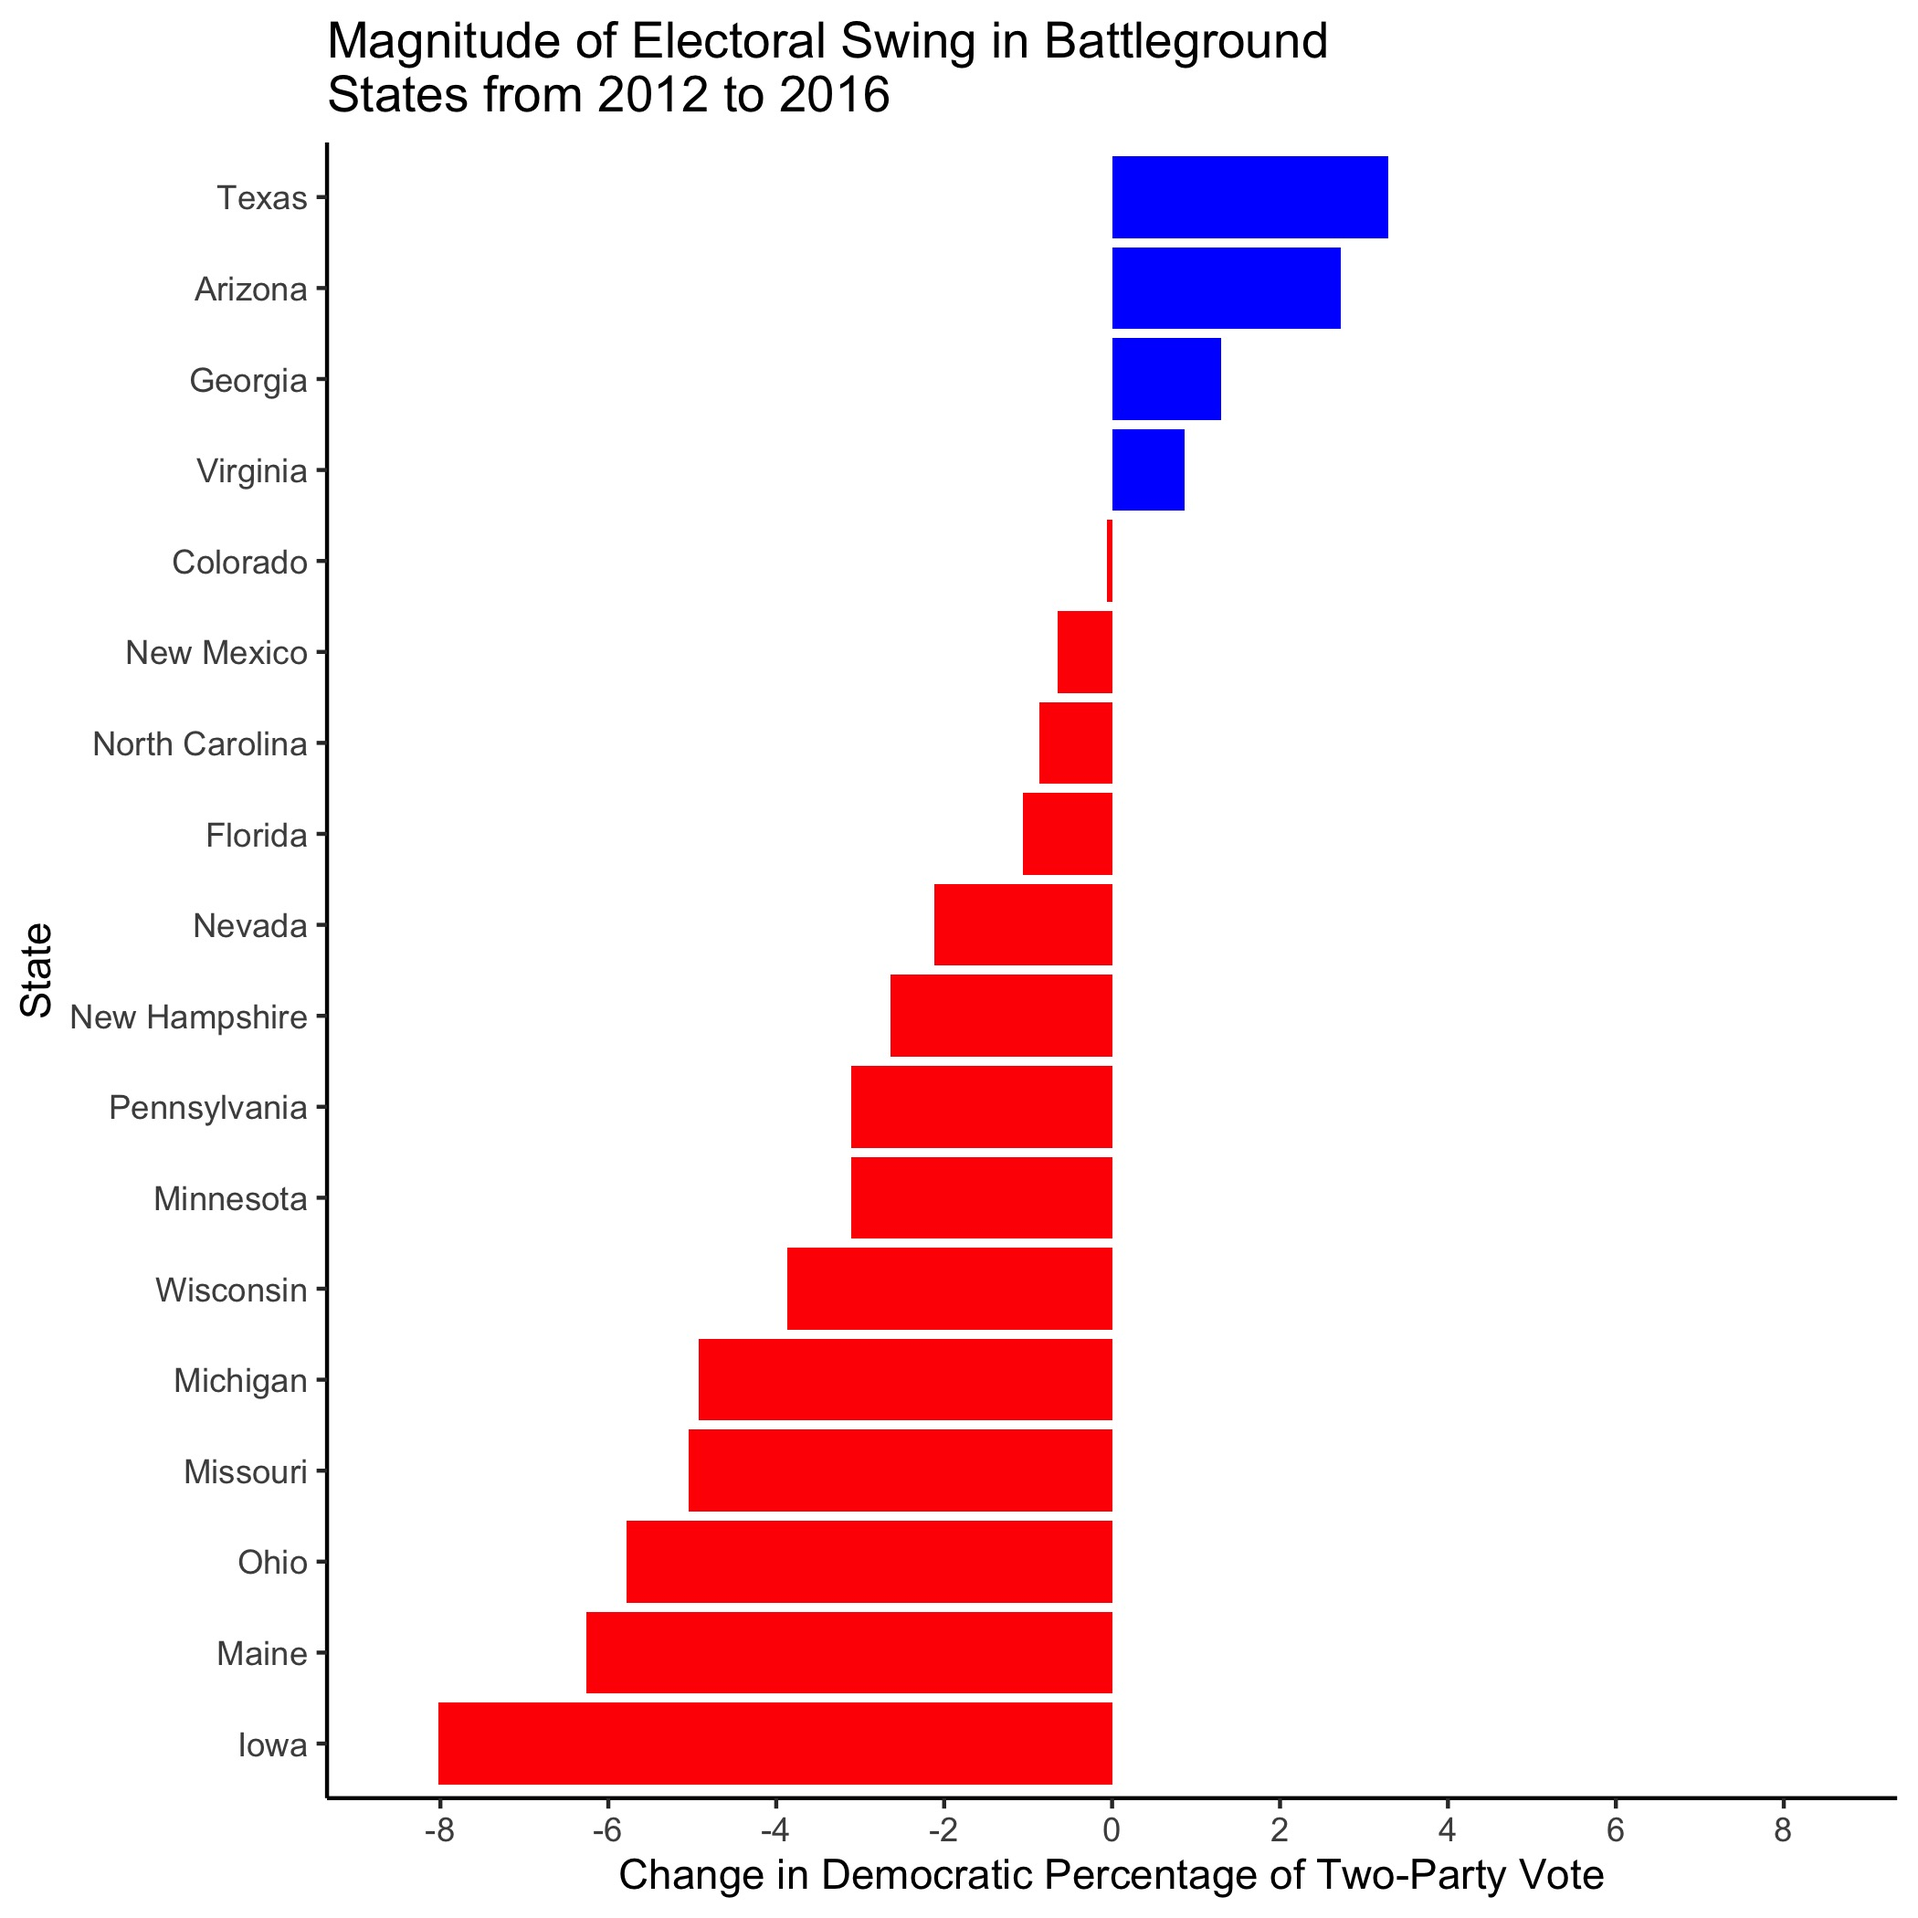
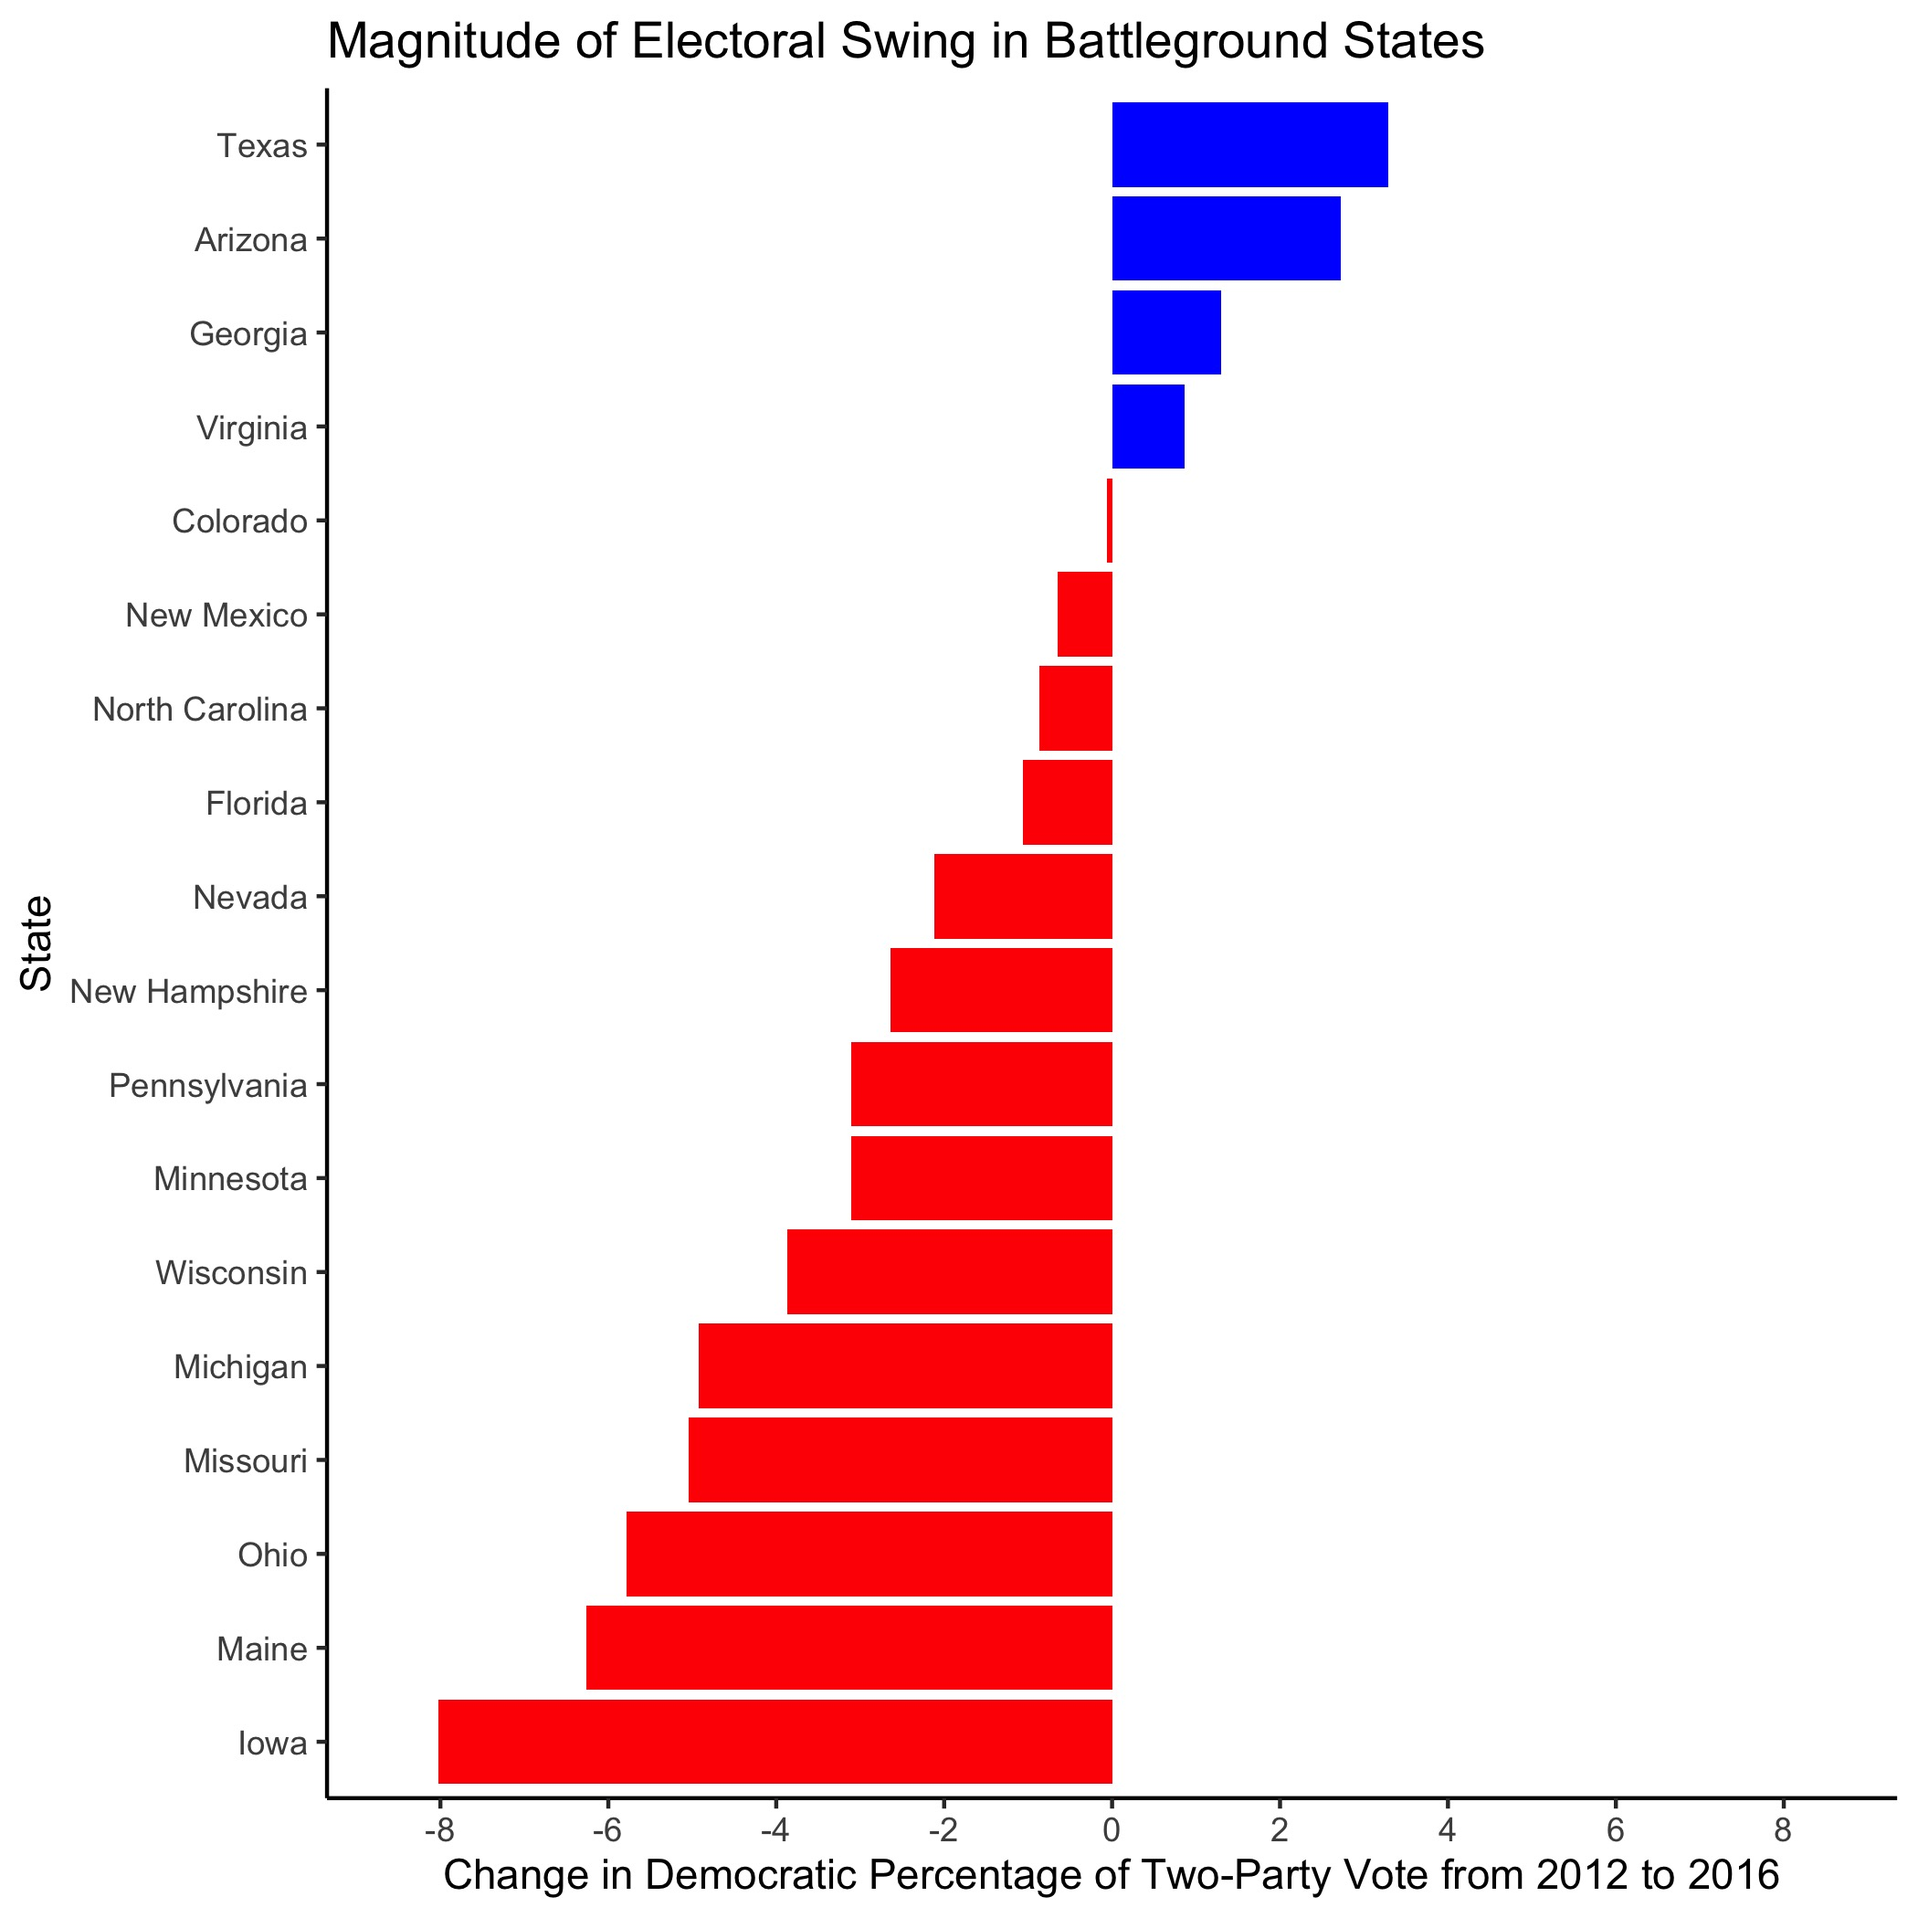
modified graph axes labels and titles as well as text headers to be more descriptive/accurate

diff --git a/posts/intro.md b/posts/intro.md
@@ -15,7 +15,7 @@ swing_margin = dem_2016 / (dem_2016 + rep_2016) -
 
 By this definition, a state with a large swing may not have a close election. To address close elections, this analysis defines **battleground states** as those with two-party vote shares between 45% and 55% for one or both of the 2012 and 2016 presidential elections.
 
-#### Electoral Swing in Recent Years
+#### Electoral Swing in 2016
 
 States have voted relatively predictably in elections over the course of the past two decades. However, Donald Trump "[blew up](https://www.politico.com/news/magazine/2020/02/07/election-2020-new-electoral-map-110496)" the Electoral Map in his 2016 victory when many reliably blue states flipped to red. The below graphic displays shifts in the two-party vote across the country between the 2012 and 2016 presidential elections: 
 
@@ -23,7 +23,7 @@ States have voted relatively predictably in elections over the course of the pas
 
 Positive values indicate blue-trending states, while negative values indicate red-trending states. The above map has far more red-trending states than blue, indicating that Republican vote share increased in the 2016 presidential race relative to the 2012 race, as expected given the outcomes of the two elections.[^bignote]
 
-#### Electoral Swing in Battleground States
+#### Electoral Swing in Battleground States from 2012 to 2016
 
 To identify potentially meaningful trends for 2020, it is helpful to focus on electoral swing in battleground states from 2012 to 2016. The plot below displays battleground states and their respective changes in two-party vote share (see this  [table](../figures/swing_table.html) for a closer look at the numbers):
 
@@ -35,7 +35,7 @@ The vast majority of red-trending battleground states voted for Barack Obama in 
 
 ![](../figures/swing_bars.jpg)
 
-#### Looking Forward
+#### Looking Ahead to 2020
 
 With the 2020 election on the horizon, electoral swing is becoming increasingly important. Research on past elections by [Gallup](https://news.gallup.com/poll/313079/mood-doesn-bright-incumbents-win.aspx) reveals that incumbents can still win re-election in spite of public dissatisfaction. For the Democratic Party to stand a chance in the 2020 election, Joe Biden must win the popular vote in a subset of red states from 2016. This interactive tool by the [New York Times](https://www.nytimes.com/interactive/2020/us/elections/election-states-biden-trump.html) supports the notion that voters in a dozen competitive states will decide the 2020 presidential race.
 
